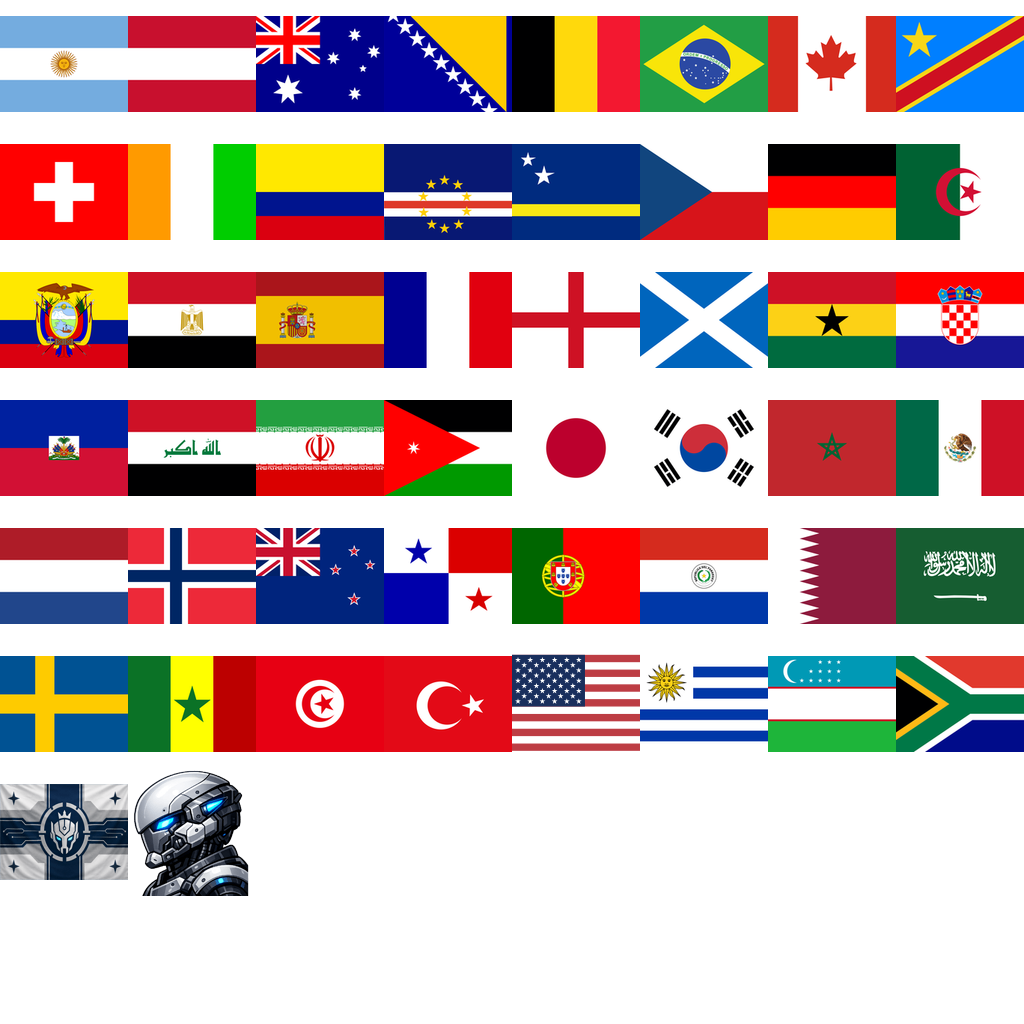
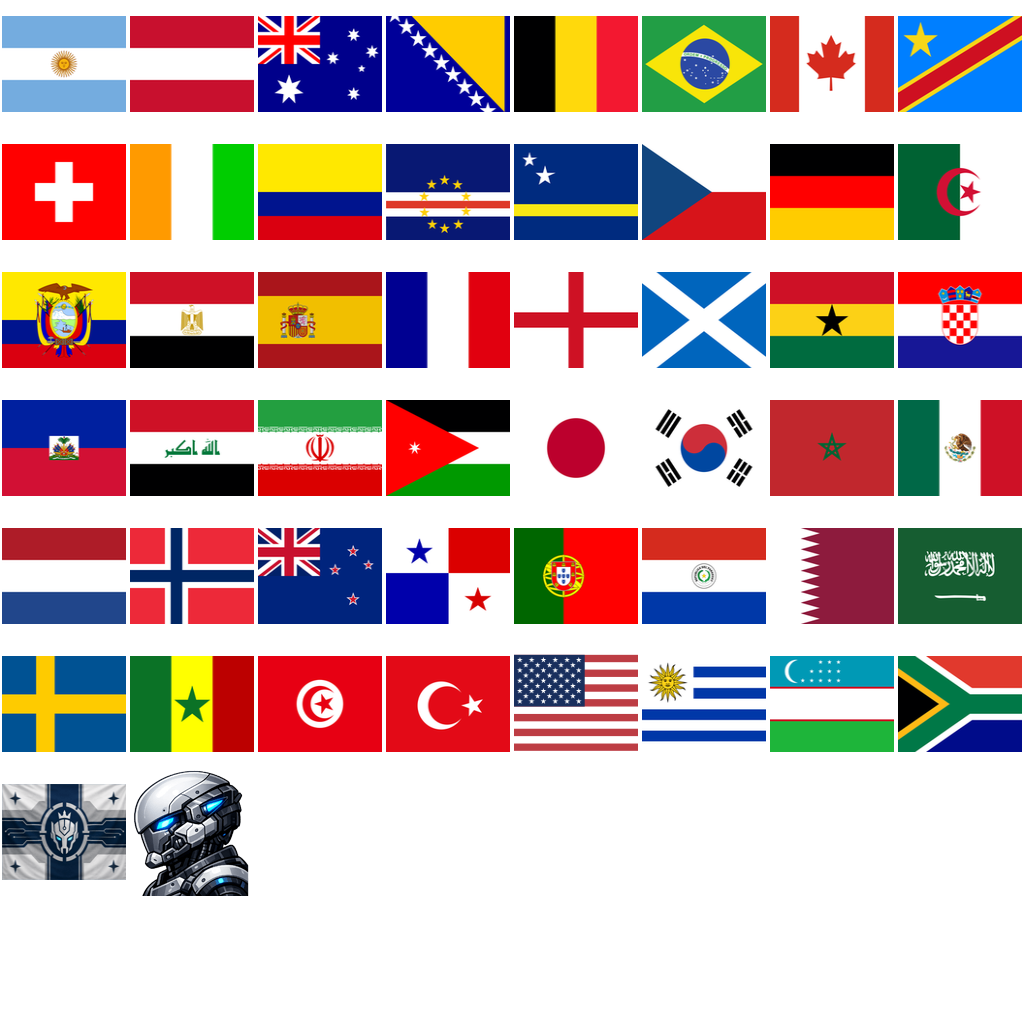
Replace Engine flag and engine pic

diff --git a/src/client/uiManager.tsx b/src/client/uiManager.tsx
@@ -106,6 +106,10 @@ const lbRows = getLeaderboardRows(s.leaderboardJson, LEADERBOARD_TOP_N)
   const isPvE = s.mode === 'pve'
   const engineIsRed = isPvE && s.pveHumanIsRed === 0
   const engineIsBlue = isPvE && s.pveHumanIsRed === 1
+  const winnerEngineSide =
+    isPvE &&
+    !!s.winnerSide &&
+    ((s.winnerSide === 'red' && engineIsRed) || (s.winnerSide === 'blue' && engineIsBlue))
 
   /** Partida en curso (oculta welcome para nuevos hasta que termine). No incluye solo “esperando rival”. */
   const showWelcome = splashDismissed && s.hasActiveMatch === 0 && s.phase === GameState.LobbyIdle
@@ -153,6 +157,12 @@ const lbRows = getLeaderboardRows(s.leaderboardJson, LEADERBOARD_TOP_N)
 
   // Prefetch scoreboard faces whenever active players change
   if (s.hasActiveMatch === 1) prefetchLeaderboardFaces([s.redAddr, s.blueAddr].filter(Boolean))
+  if (showMatchEnd && s.winnerSide && !winnerEngineSide) {
+    const winAddr = s.winnerSide === 'red' ? s.redAddr : s.blueAddr
+    if (winAddr) prefetchLeaderboardFaces([winAddr])
+  }
+  const winnerWinAddr = s.winnerSide === 'red' ? s.redAddr : s.blueAddr
+  const winnerFaceUrl = winnerEngineSide ? undefined : getLeaderboardFaceUrl(winnerWinAddr)
 
   // Seed local country from server snapshot (first time only)
   const myCountryInSnapshot = side === 'red' ? s.redCountry : side === 'blue' ? s.blueCountry : ''
@@ -850,8 +860,10 @@ const lbRows = getLeaderboardRows(s.leaderboardJson, LEADERBOARD_TOP_N)
               <UiEntity
                 uiTransform={{ width: 256, height: 256, margin: { bottom: 16 } }}
                 uiBackground={
-                  getLeaderboardFaceUrl(s.winnerSide === 'red' ? s.redAddr : s.blueAddr)
-                    ? { textureMode: 'stretch', texture: { src: getLeaderboardFaceUrl(s.winnerSide === 'red' ? s.redAddr : s.blueAddr)! } }
+                  winnerEngineSide
+                    ? enginePicBackground()
+                    : winnerFaceUrl
+                    ? { textureMode: 'stretch', texture: { src: winnerFaceUrl } }
                     : { color: Color4.create(0.2, 0.2, 0.2, 1) }
                 }
               />
@@ -861,7 +873,12 @@ const lbRows = getLeaderboardRows(s.leaderboardJson, LEADERBOARD_TOP_N)
                 color={Color4.create(1, 0.92, 0.35, 1)}
                 textAlign="middle-center"
               />
-              {(s.winnerSide === 'red' ? s.redCountry : s.blueCountry) ? (
+              {winnerEngineSide ? (
+                <UiEntity
+                  uiTransform={{ width: 96, height: 72, margin: { top: 16 } }}
+                  uiBackground={engineFlagBackground()}
+                />
+              ) : (s.winnerSide === 'red' ? s.redCountry : s.blueCountry) ? (
                 <UiEntity
                   uiTransform={{ width: 96, height: 72, margin: { top: 16 } }}
                   uiBackground={flagBackground(s.winnerSide === 'red' ? s.redCountry : s.blueCountry)}